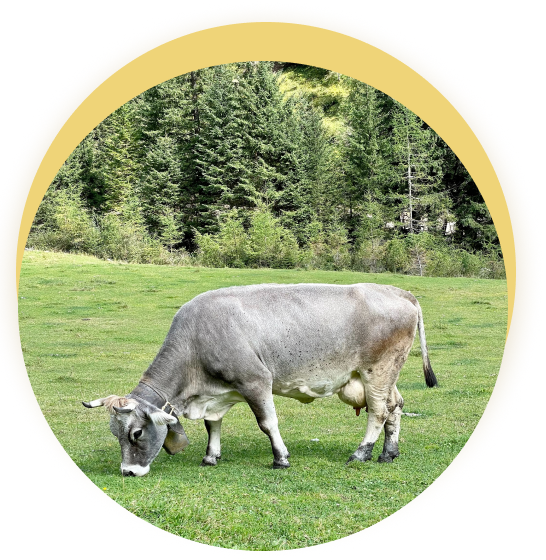
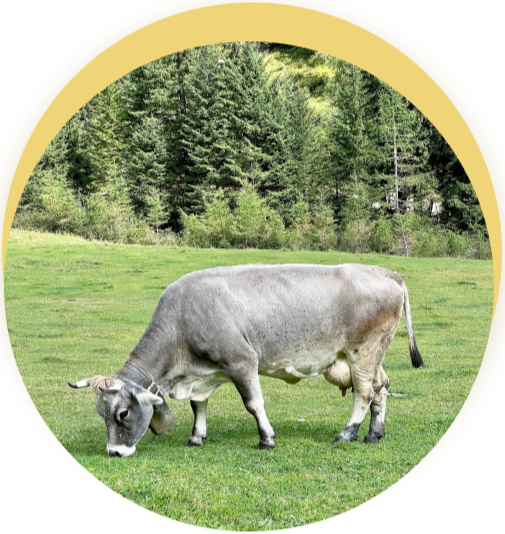
Выполнена верстка экранов, добавлен якорь
Выполнена верстка планшетного и десктопного экранов, добавлен якорь

diff --git a/src/partials/about.html b/src/partials/about.html
@@ -1,31 +1,41 @@
-
 <section class="about__section">
     <div class="about__container container">
         <p class="title__about--label">tradition and love</p>
-        <h2 class="title__about--topic">how it’s made?</h2>
-        <div class="about__image"></div>
-        <ul class="about__info">
-            <li class="about__item">
-                <p>Ice is a place where you will become not only a little happier, but also
-                    healthier. Health is the main value
-                    for us, and
-                    we follow it when creating our handmade desserts.</p>
-            </li>
-            <li>
-                <p class="about__item">We use traditional recipes and 100% natural ingredients. Our products are so
-                    natural that they can be given
-                    to children
-                    from the age of three years. Sweets lovers can expect 55 types of ice cream, 15 types of coffee and
-                    23
-                    milkshakes.
-                </p>
-            </li>
-        </ul>
-        <button type="button" class="button button--about">Read more
-            <svg class="about__icon" width="12" height="12">
-                <use href="./images/icons.svg#about__icon"></use>
-            </svg>
-        </button>
+        <h2 id="about" class="title__about--topic">how it’s made?</h2>
+        <div class="about__content">
+            <div class="about__image"></div>
+            <div>
+                <ul class="about__info">
+                    <li class="about__item">
+                        <p>Ice is a place where you will become not only a little happier, but also
+                            healthier. Health is the main value
+                            for us, and
+                            we follow it when creating our handmade desserts.</p>
+                    </li>
+                    <li class="about__item">
+                        <p>We use traditional recipes and 100% natural ingredients. Our products are so
+                            natural that they can be given
+                            to children
+                            from the age of three years. Sweets lovers can expect 55 types of ice cream, 15 types of
+                            coffee
+                            and
+                            23
+                            milkshakes.
+                        </p>
+                    </li>
+                    <li class="about__item">
+                        <p>This is enough to choose ice cream and
+                            coffee for any mood!
+                        </p>
+                    </li>
+                </ul>
+                <button type="button" class="button button--about">Read more
+                    <svg class="about__icon" width="12" height="12">
+                        <use href="./images/icons.svg#about__icon"></use>
+                    </svg>
+                </button>
+            </div>
+        </div>
+
     </div>
 </section>
-

diff --git a/src/sass/components/_titles.scss b/src/sass/components/_titles.scss
@@ -1,21 +1,22 @@
 .title {
-    font-family: $font-family-secondary;
-    color: $text-color-light;
-    font-weight: 400;
-    font-size: 30px;
-    line-height: calc(38 / 30);
-    text-align: center;
-    text-transform: uppercase;
+  font-family: $font-family-secondary;
+  color: $text-color-light;
+  font-weight: 400;
+  font-size: 30px;
+  line-height: calc(38 / 30);
+  text-align: center;
+  text-transform: uppercase;
 
-    @media screen and (min-width: 768px) {
-        font-size: 34px;
-        line-height: calc(43 / 34);
-    }
-    @media screen and (min-width: 1200px) {
-        font-size: 36px;
-        line-height: calc(45 / 36);
-        letter-spacing: 0.06em;
-    }
+  @media screen and (min-width: 768px) {
+    font-size: 34px;
+    line-height: calc(43 / 34);
+  }
+
+  @media screen and (min-width: 1200px) {
+    font-size: 36px;
+    line-height: calc(45 / 36);
+    letter-spacing: 0.06em;
+  }
 }
 
 .title--accent {
@@ -24,22 +25,23 @@
   font-size: 36px;
   line-height: 45px;
 
-    font-family: $font-family-main;
-    color: $text-color-light;
-    font-size: 18px;
-    line-height: calc(22 / 18);
-    text-align: center;
-    text-transform: uppercase;
+  font-family: $font-family-main;
+  color: $text-color-light;
+  font-size: 18px;
+  line-height: calc(22 / 18);
+  text-align: center;
+  text-transform: uppercase;
 
-    @media screen and (min-width: 768px) {
-        font-size: 22px;
-        line-height: calc(27 / 22);
-    }
-    @media screen and (min-width: 1200px) {
-        font-weight: 800;
-        font-size: 30px;
-        line-height: calc(37 / 30);
-    }
+  @media screen and (min-width: 768px) {
+    font-size: 22px;
+    line-height: calc(27 / 22);
+  }
+
+  @media screen and (min-width: 1200px) {
+    font-weight: 800;
+    font-size: 30px;
+    line-height: calc(37 / 30);
+  }
 }
 
 .title__about--label {
@@ -54,6 +56,17 @@
   text-transform: uppercase;
 
   color: #fcfcfc;
+
+  @media screen and (min-width:768px) {
+    font-weight: 800;
+    font-size: 22px;
+    letter-spacing: 0.04em;
+  }
+
+  @media screen and (min-width:1200px) {
+    font-size: 30px;
+    line-height: 1.23;
+  }
 }
 
 .title__about--topic {
@@ -72,6 +85,20 @@
   text-transform: uppercase;
 
   color: #fcfcfc;
+
+  @media screen and (min-width:768px) {
+    width: 100%;
+    font-size: 34px;
+    line-height: 1.26;
+    letter-spacing: 0.06em;
+  }
+
+  @media screen and (min-width:1200px) {
+    font-size: 36px;
+    line-height: 45px;
+  }
+
+
 }
 
 .title--footer {

diff --git a/src/sass/layout/_about.scss b/src/sass/layout/_about.scss
@@ -6,15 +6,51 @@
 .about__container {
     padding-top: 60px;
     padding-bottom: 21px;
+
+    @media screen and (min-width:768px) {
+        padding-bottom: 26px;
+    }
+}
+
+.about__content {
+    display: flex;
+    flex-direction: column;
+
+    @media screen and (min-width:768px) {
+        flex-direction: row;
+    }
+
+    @media screen and (min-width:1200px) {
+        align-items: center;
+    }
 }
 
 .about__image {
     height: 303px;
+    width: 280px;
     margin-bottom: 40px;
     background-image: url(../images/about/about_sm.png);
     background-repeat: no-repeat;
     background-position: 50% 0;
     background-size: contain;
+
+    @media screen and (min-width:768px) {
+        height: 356px;
+        width: 336px;
+        background-image: url(../images/about/about_md.png);
+        margin-bottom: 0px;
+        background-position: 0 0;
+        margin-right: 32px;
+    }
+
+    @media screen and (min-width:1200px) {
+        height: 529px;
+        width: 500px;
+        background-image: url(../images/about/about_lg.png);
+        margin-bottom: 0px;
+        background-position: 0 0;
+        margin-right: 100px;
+    }
 }
 
 .about__info {
@@ -30,13 +66,39 @@
     text-align: center;
     letter-spacing: 0.04em;
 
-    color: #fcfcfc;
+    color: $text-color-light;
+
+    @media screen and (min-width:768px) {
+        width: 334px;
+        text-align: start;
+        margin-bottom: 48px;
+    }
+
+    @media screen and (min-width:1200px) {
+        font-size: 16px;
+        width: 463px;
+    }
 }
 
 .about__item {
-    &:first-child {
+    &:not(:last-child) {
         margin-bottom: 4px;
     }
+
+    &:last-child {
+        display: none;
+    }
+
+    @media screen and (min-width:768px) {
+        &:not(:last-child) {
+            margin-bottom: 8px;
+        }
+
+        &:last-child {
+            display: block;
+        }
+    }
+
 }
 
 .about__icon {

diff --git a/src/sass/components/_buttons.scss b/src/sass/components/_buttons.scss
@@ -40,27 +40,32 @@
 
 /*Кнопка Read more */
 .button--about {
-  position: relative;
-  width: 164px;
-  margin-left: auto;
-  margin-right: auto;
-  padding: 12px 34px 12px 34px;
-  font-size: 14px;
-  line-height: 1.28;
-  align-items: center;
-  border: none;
-  outline: none;
-
-  &:hover {
+    position: relative;
+    display: flex;
+    width: 164px;
+    margin-left: auto;
+    margin-right: auto;
+    padding: 12px 34px 12px 34px;
+    font-size: 14px;
+    line-height: 1.28;
+    align-items: center;
     border: none;
-    background-color: $hover-color;
-  }
+    outline: none;
 
-  &:focus {
-    border: none;
-    color: $text-color-light;
-    background-color: $hover-color;
-  }
+    &:hover {
+        border: none;
+        background-color: $hover-color;
+    }
+
+    &:focus {
+        border: none;
+        color: $text-color-light;
+        background-color: $hover-color;
+    }
+
+    @media screen and (min-width:768px) {
+        margin-left: 0;
+    }
 }
 
 
@@ -92,6 +97,7 @@
     font-size: 8px;
     line-height: 1.25;
     border: 2px solid $accent-color;
+
     &:hover {
         border: 2px solid $hover-color;
     }

diff --git a/src/sass/utils/_mixins.scss b/src/sass/utils/_mixins.scss
@@ -1,6 +1,6 @@
 @mixin text-design($fw, $fs, $lh, $ls) {
     font-weight: $fw;
     font-size: $fs;
-    line-height: $lh / $fs;
+    line-height: $lh;
     letter-spacing: $ls;
 }
